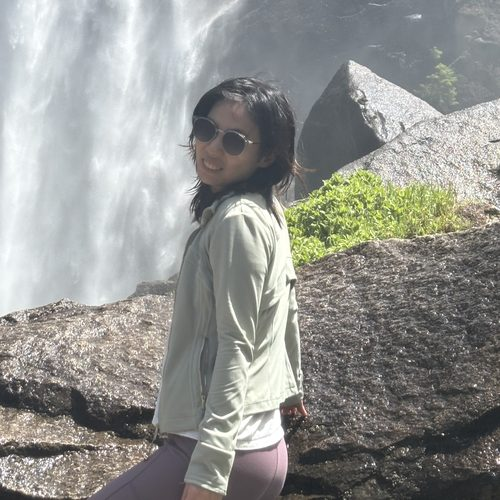
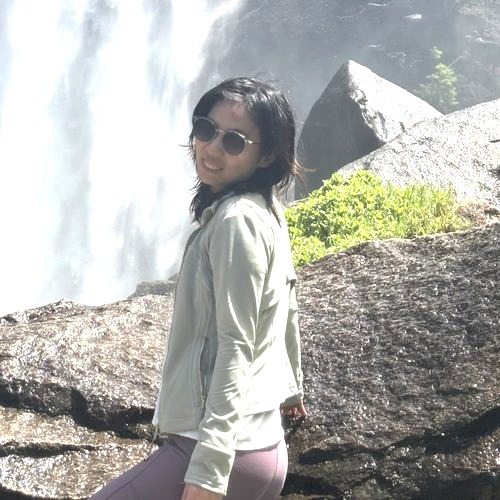
Update site content and brighten profile photo
- Update footer date, add KDD 2027 reviewer service
- Reorder sections: Core Work before Service, Service after About
- Rename Work Before to Prior Experience, merge BigQuery intern into Core Work
- Brighten profile photo

diff --git a/index.html b/index.html
@@ -13,10 +13,10 @@
     <nav>
       <ul>
         <li><a href="#about">About</a></li>
-        <li><a href="#work">Work</a></li>
-        <li><a href="#publications">Research</a></li>
+        <li><a href="#work">Core Work</a></li>
         <li><a href="#service">Service</a></li>
-        <li><a href="#work-before">Work Before</a></li>
+        <li><a href="#publications">Research</a></li>
+        <li><a href="#work-before">Prior Experience</a></li>
         <li><a href="#teaching">Teaching</a></li>
         <li><a href="#education">Education</a></li>
         <li><a href="#contact">Contact</a></li>
@@ -43,16 +43,27 @@
       </div>
     </section>
 
-    <!-- CURRENT WORK EXPERIENCE -->
+    <!-- CORE WORK EXPERIENCE -->
     <section id="work">
-      <h2>Current Work</h2>
+      <h2>Core Work</h2>
       <p><strong>Google, LLC, Sunnyvale, CA</strong><br />
-       <strong><mark> 2025 Google Cloud Tech Impact Award </mark></strong><br />
-        <strong><mark> 2025 Bronze Perfy Award</mark></strong><br />
-      <ul>
-        <li>Software Engineer, F1 Query Engine Team (Jun. 2025 - Present) <br />
-      </ul>
+       <strong>2025 Google Cloud Tech Impact Award </strong><br />
+        <strong> 2025 Bronze Perfy Award</strong><br />
+       Software Engineer, F1 Query Engine Team (Jun. 2025 - Present) <br />
+       <br>
+        <a href="https://docs.cloud.google.com/bigquery/docs/arima-speed-up-tutorial#small-search-space-fast-training" target="_blank" rel="noopener">ARIMA speed-up tutorial: small search space fast training</a><br>
+              Software Engineering Intern, BigQuery Machine Learning Team (Sep. 2021 – Dec. 2021) <br>
       </p>
+    </section>
+
+    <!-- SERVICE / REVIEWING SECTION -->
+    <section id="service">
+      <h2>Professional Service</h2>
+      <ul>
+        <li><strong>Reviewer:</strong> KDD 2026, KDD 2027</li>
+        <li><strong>Artifact Evaluation (AE) Reviewer:</strong> ASPLOS 2025, MICRO 2023, ASPLOS 2022</li>
+        <li><strong>Sub-reviewer:</strong> ICS 2023, PACT 2020</li>
+      </ul>
     </section>
 
     <!-- PUBLICATIONS SECTION -->
@@ -101,42 +112,20 @@
       </ul>
     </section>
 
-    <!-- SERVICE / REVIEWING SECTION -->
-    <section id="service">
-      <h2>Professional Service</h2>
-      <ul>
-        <li><strong>Reviewer:</strong> KDD 2026</li>
-        <li><strong>Artifact Evaluation (AE) Reviewer:</strong> ASPLOS 2025, MICRO 2023, ASPLOS 2022</li>
-        <li><strong>Sub-reviewer:</strong> ICS 2023, PACT 2020</li>
-      </ul>
-    </section>
-
     <!-- WORK BEFORE / PAST EXPERIENCE -->
     <section id="work-before">
-      <h2>Work Before</h2>
+      <h2>Prior Experience</h2>
       <p><strong>Google, LLC, Sunnyvale, CA</strong><br />
-      <ul>
-        <li>Software Engineer, Global Network Team (Aug. 2023 – Jun. 2025) <br />
-      </ul>
+      Software Engineer, Global Network Team (Aug. 2023 – Jun. 2025) <br />
       </p>
       <br>
       <p><strong>Google, LLC, Sunnyvale, CA</strong><br />
         Research Intern, Cloud Net Infra Team (Jun. 2022 – Sep. 2022) <br>
-        Host: Jipan Yang and Morley Mao
       </p>
       <ul>
         <li>Built software path between NVMe initiator and target devices via RPC framework</li>
         <li>Supported asynchronous requests in bidirectional streaming RPC client side</li>
         <li>Implemented R/W and admin commands in memory-mapped backend storage</li>
-      </ul>
-      <br>
-      <p><strong>Google, LLC, Mountain View, CA</strong><br />
-        Software Engineering Intern, BigQuery Machine Learning Team (Sep. 2021 – Dec. 2021) <br>
-        Host: Xi Cheng and Lisa Yin
-      </p>
-      <ul>
-        <li>Worked on time series models performance improvement projects</li>
-        <li>Focused on fast time series forecasting using a subset of data</li>
       </ul>
       <br>
       <p><strong>Pinterest, Inc, San Francisco, CA</strong><br />
@@ -189,7 +178,7 @@
   </main>
 
   <footer>
-    <p>&copy; 07/24/2025 Xiaolin Jiang</p>
+    <p>&copy; 08/06/2026 Xiaolin Jiang</p>
   </footer>
 </body>
 
